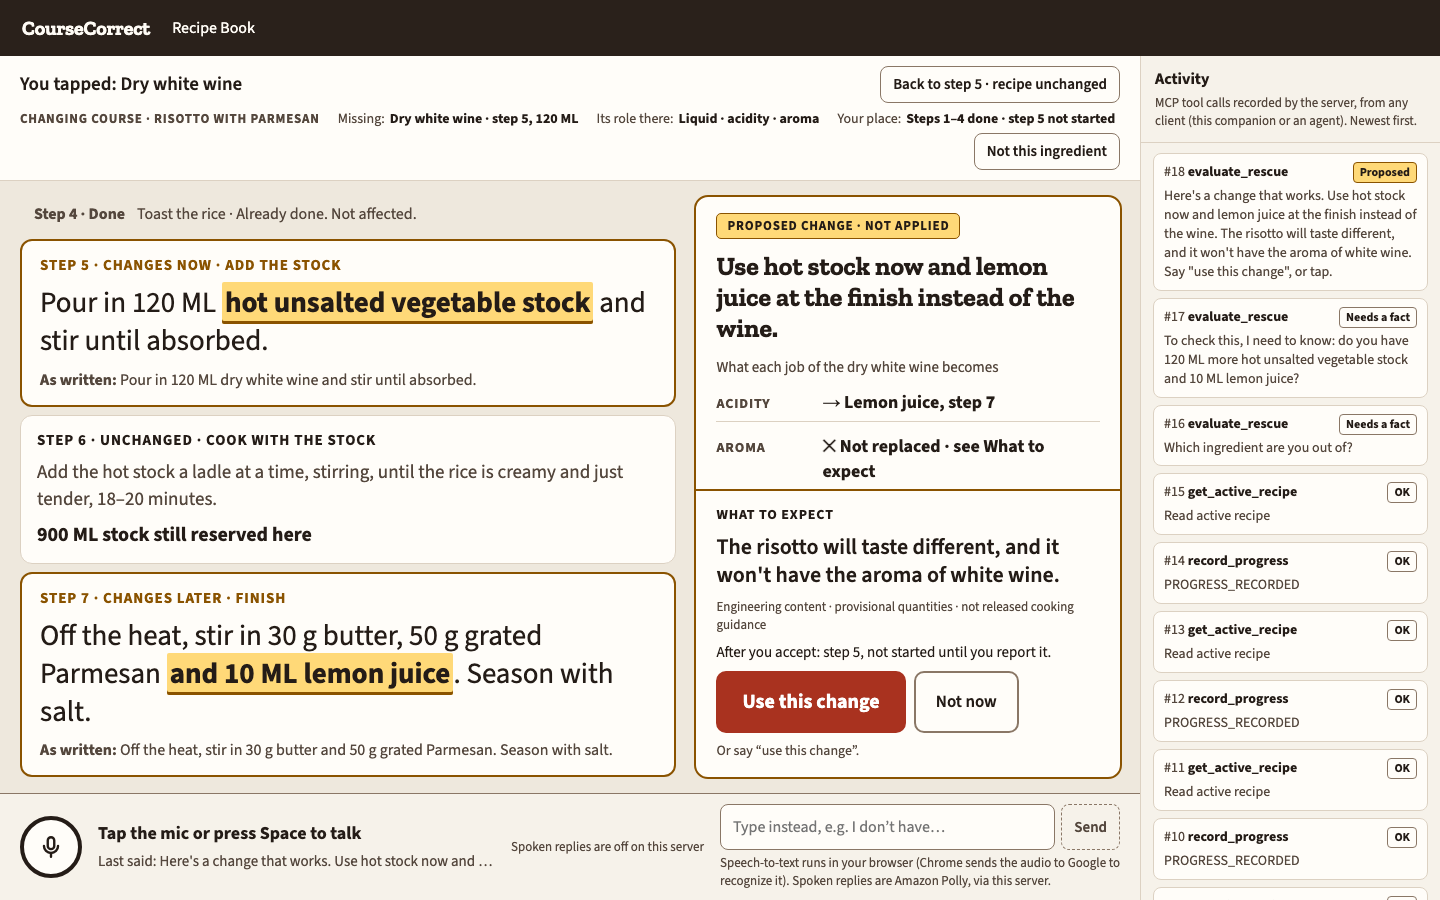
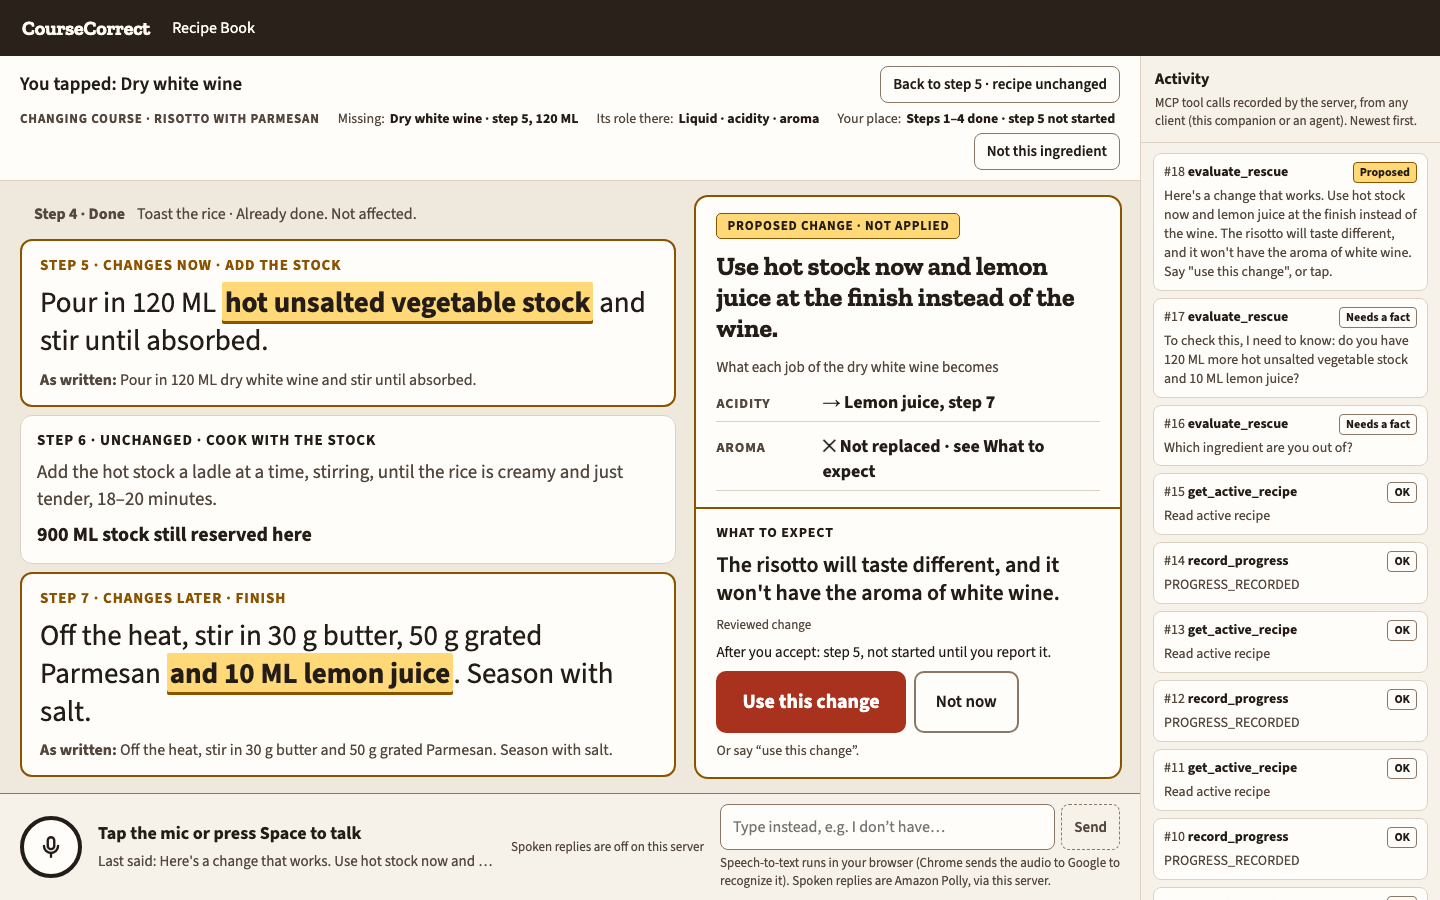
Polish in-app wording and refresh screenshots
- proposals are labelled "Reviewed change" or "Prepared at import
  (AI) · checked by code"; a cooking session shows "Reviewed
  knowledge", with its release in the tooltip
- plan details state each change's culinary support plainly
- bundled recipes are labelled "CourseCorrect recipe"
- README screenshots retaken from the current build

Changed region(s): [[0.5, 0.56, 0.75, 0.7156]]

diff --git a/tests/e2e/journeys.spec.ts b/tests/e2e/journeys.spec.ts
@@ -78,7 +78,7 @@ test('Risotto rescue: question → yes → proposal (consequence beside acceptan
   await expect(consequence).toBeInViewport();
   await expect(use).toBeInViewport();
   await expect(scr(page).getByText('Proposed change · not applied')).toBeVisible();
-  await expect(scr(page).getByText(/Engineering content · provisional quantities · not released cooking guidance/)).toBeVisible();
+  await expect(scr(page).getByText(/Reviewed change/)).toBeVisible();
   await expect(scr(page).getByText('After you accept: step 5, not started until you report it.')).toBeVisible();
   await page.screenshot({ path: '.artifacts/e2e/shots/risotto-proposal-1440.png' });
 
@@ -150,7 +150,7 @@ test('Shortcake step 4: "No", because the same cream must whip in step 6 (reason
 
 test('Scone recovery (approved demo): brushing milk confirmed separately → apply → step 3 not started', async ({ page }) => {
   await reset(page, 'risotto.step5');
-  await start(page, /Cream Scones/, 'Owner-authored');
+  await start(page, /Cream Scones/, 'CourseCorrect recipe');
   await doneThrough(page, 2);
   await say(page, 'I’m out of heavy cream. Can I use milk and butter?');
   const qs = page.getByTestId('question');
@@ -370,7 +370,7 @@ test('Import cards: the imported risotto\'s Parmesan card is a labelled plan →
   await expect(page.getByTestId('question')).toContainText('50 g grated pecorino');
   await page.getByRole('button', { name: 'Yes', exact: true }).click();
   await expect(page.getByTestId('change-7')).toHaveText('Off the heat, stir in 30 g butter and 50 g grated pecorino. Season with salt.');
-  await expect(scr(page).getByText(/^Prepared at import \(AI\) · not reviewed · provisional quantities · not released cooking guidance$/)).toBeVisible();
+  await expect(scr(page).getByText(/^Prepared at import \(AI\) · checked by code$/)).toBeVisible();
   await expect(page.getByTestId('consequence')).toHaveText('Pecorino is saltier and sharper, so taste before adding salt.');
   await page.waitForTimeout(600);
   await page.screenshot({ path: '.artifacts/e2e/shots/cook-card-proposal.png' });
@@ -526,7 +526,7 @@ test('Activity starts blank for each recipe; start over (owner key) clears sessi
 
 test('Scone by spoken-style replies: a plain yes answers one question and prompts the next; "yes to both" answers all; "let’s use this change" applies', async ({ page }) => {
   await reset(page, 'risotto.step5');
-  await start(page, /Cream Scones/, 'Owner-authored');
+  await start(page, /Cream Scones/, 'CourseCorrect recipe');
   await doneThrough(page, 2);
   await say(page, 'I’m out of heavy cream. Can I use milk and butter?');
   await expect(page.getByTestId('question')).toHaveCount(2);
@@ -539,7 +539,7 @@ test('Scone by spoken-style replies: a plain yes answers one question and prompt
   await expect(scr(page).getByText(/Change applied\. Step 3 is ready, not started/)).toBeVisible();
   // the same request answered in one go
   await reset(page, 'risotto.step5');
-  await start(page, /Cream Scones/, 'Owner-authored');
+  await start(page, /Cream Scones/, 'CourseCorrect recipe');
   await doneThrough(page, 2);
   await say(page, 'I’m out of heavy cream. Can I use milk and butter?');
   await expect(page.getByTestId('question')).toHaveCount(2);   // answer the open questions, not a new request

diff --git a/src/contract/analysis.ts b/src/contract/analysis.ts
@@ -49,7 +49,7 @@ function helpers(c: WhyCtx) {
   const r = c.pack.recipe;
   const n = (u: IngredientUse) => stepOrder(r, u.stepId);
   const short = (u: IngredientUse) => { const i = getIngredient(r, u.ingredientId)!; return (i.kind && kindOf(c.v, i.kind.kindId)?.short) || lowerFirst(i.name); };
-  const by = (p: { status: string; by: string; ref?: string | null }) => (p.status === 'REVIEWED' ? (p.by === 'OWNER' ? 'reviewed by the owner' : p.ref?.startsWith('roles.json#') ? `machine-checked against the approved role table (${p.ref.slice('roles.json#'.length)})` : 'machine-checked against owner-approved content') : p.status === 'SOURCE_VERIFIED' ? 'read from the source' : p.status === 'CONFIRMED' ? (p.by === 'COOK' ? 'confirmed by you for this recipe' : 'confirmed') : 'not reviewed');
+  const by = (p: { status: string; by: string; ref?: string | null }) => (p.status === 'REVIEWED' ? (p.by === 'OWNER' ? 'reviewed' : p.ref?.startsWith('roles.json#') ? `machine-checked against the approved role table (${p.ref.slice('roles.json#'.length)})` : 'machine-checked against approved content') : p.status === 'SOURCE_VERIFIED' ? 'read from the source' : p.status === 'CONFIRMED' ? (p.by === 'COOK' ? 'confirmed by you for this recipe' : 'confirmed') : 'not reviewed');
   return { r, n, short, by };
 }
 
@@ -81,7 +81,7 @@ function planOf(c: WhyCtx, b: Binding): ImportPlan | null {
   const basis: string[] = [];
   // mechanical validity and culinary support said apart (2026-10-13)
   if (b.card) basis.push('Written for this recipe by the import analysis (an AI model), then checked by code: amounts parsed, every use of the ingredient addressed, rewritten steps checked against the recipe.',
-    'Culinary support: none on file. Whether this replacement can do the job here is the AI\'s claim; no source or reviewed rule backs it.', 'Not reviewed and not kitchen-tested.');
+    'Culinary support: none on file. Whether this replacement can do the job here is the AI\'s claim; no source or reviewed rule backs it.');
 
   const entry = b.card ? c.pack.cards?.find((e) => e.useId === b.targetUseId) : undefined, repaired = entry?.normalized;
   // ccmcp-swaps-3: which of the ranked suggestions this is, and why each earlier one wasn't used
@@ -107,9 +107,8 @@ function planOf(c: WhyCtx, b: Binding): ImportPlan | null {
       const note = c.pack.cards?.find((e) => e.useId === u.useId)?.roleNote;
       if (note) basis.push(`Step ${n(u)}: ${note}.`);
     }
-    if (b.quantityStatus === 'PROVISIONAL') basis.push('Quantities are provisional engineering content, not kitchen-tested.');
   }
-  if (!b.card) basis.push('Culinary support: a reviewed rule (sourced content the owner approved). Not kitchen-tested.');
+  if (!b.card) basis.push('Culinary support: a reviewed, sourced rule.');
   return {
     planId: b.bindingId, ruleId: b.card ? null : `${b.patternId}@${b.patternVersion}`, title: b.patternTitle, kind: replacements.length ? 'replacement' : 'omission',
     provenance: b.card ? { kind: 'aiPrepared', label: CARD_LABEL, basis } : { kind: 'reviewedRule', label: 'Reviewed change', basis },

diff --git a/tests/acceptance/cards.test.ts b/tests/acceptance/cards.test.ts
@@ -106,7 +106,7 @@ describe('cooking answers come from cards, with no model call beyond interpretat
     const wine = await k.askAll(/wine/i, 'yes', ['lemon-juice']);
     expect(wine.outcome).toBe('proposal');
     if (wine.outcome !== 'proposal') return;
-    expect(wine.candidates[0]).toMatchObject({ headline: 'Use hot stock now and lemon juice at the finish instead of the wine.', contentLabel: 'Engineering content · provisional quantities · not released cooking guidance' });
+    expect(wine.candidates[0]).toMatchObject({ headline: 'Use hot stock now and lemon juice at the finish instead of the wine.', contentLabel: 'Reviewed change' });
 
     const p = await cookTo(svc, saved.risotto.recipeId, 6);
     const e1 = await p.ask(/parmesan/i);
@@ -115,7 +115,7 @@ describe('cooking answers come from cards, with no model call beyond interpretat
     expect(e1.questions.map((q) => q.items.map((i) => i.text))).toEqual([['50 g grated pecorino']]);
     const e2 = await p.ask(/parmesan/i, [], { id: e1.id, answers: [{ questionId: e1.questions[0].id, value: 'yes' }] });
     if (e2.outcome !== 'proposal') throw new Error(e2.outcome);
-    expect(e2.candidates[0]).toMatchObject({ headline: 'Use 50 g grated pecorino instead of the parmesan in step 7.', contentLabel: 'Prepared at import (AI) · not reviewed · provisional quantities · not released cooking guidance',
+    expect(e2.candidates[0]).toMatchObject({ headline: 'Use 50 g grated pecorino instead of the parmesan in step 7.', contentLabel: 'Prepared at import (AI) · checked by code',
       consequence: { text: 'Pecorino is saltier and sharper, so taste before adding salt.' } });
     expect(e2.trace.deterministic).toMatch(/^Prepared at import \(AI\): Grated pecorino for the parmesan/);
     const a = (await apply(svc, e2));

diff --git a/src/service/commands.ts b/src/service/commands.ts
@@ -9,7 +9,7 @@ import { currentStepId, getStep, renderStep } from '../domain/recipe.ts';
 import { evaluate, knowledgeUnavailable } from '../engine/evaluate.ts';
 import { applyProgress, type ProgressAction } from '../engine/progress.ts';
 import {
-  contentLabel, coverageSummary, progressOf, recipeContent, rescueEvaluation, type RecipeBookEntry, type RecipeContent, type RescueEvaluation, type WireAmendment, type WireRun,
+  coverageSummary, progressOf, recipeContent, rescueEvaluation, type RecipeBookEntry, type RecipeContent, type RescueEvaluation, type WireAmendment, type WireRun,
 } from '../contract/project.ts';
 import type { Authoring, ImportJob, WireDraft } from '../authoring/drafts.ts';
 import { pinOf, rebindOf, staticKnowledge, KnowledgeUnavailable, type Content, type Knowledge, type Pin } from './content.ts';
@@ -168,7 +168,7 @@ export class Service {
     return {
       id: row.runId, recipeId: row.recipeId, recipeVersionId: pack.recipeHash, epoch: row.epoch, revision: row.revision, version: row.version,
       state: row.status === 'ACTIVE' ? 'active' : 'ended', mode: row.mode,
-      contentLabel: contentLabel(row.mode, pack.bindings.some((b) => b.quantityStatus === 'PROVISIONAL' && !b.card)),
+      contentLabel: row.mode === 'COOK' ? 'Released' : 'Reviewed knowledge',
       steps: snap.recipe.steps.map((s) => {
         const orig = getStep(v1, s.stepId);
         const eff = renderStep(snap.recipe, s), was = orig ? renderStep(v1, orig) : null;

diff --git a/src/web/review.tsx b/src/web/review.tsx
@@ -191,7 +191,7 @@ function UseDetail({ c, g, u, plan, plans, alt, setAlt, provOpen, setProvOpen, a
       {(roles.length > 0 || guess.length > 0) && <div style={{ display: 'flex', gap: 6, flexWrap: 'wrap', alignItems: 'center' }}>
         <span style={{ fontSize: 15, color: 'var(--cc-text-2)' }}>What it does here</span>
         {(roles.length ? roles : guess).map((t) => <span key={t} style={{ fontSize: 16, fontWeight: 700, border: '1.5px solid var(--cc-border-strong)', borderRadius: 14, padding: '2px 11px', background: 'var(--cc-surface)' }}>{t}</span>)}
-        <span className="muted" style={{ fontSize: 14 }}>{!roles.length ? 'as read at import · not reviewed' : u.reviewedFunction!.authority === 'OWNER_REVIEWED' ? 'reviewed by the owner' : 'machine-checked against the approved role table'}</span>
+        <span className="muted" style={{ fontSize: 14 }}>{!roles.length ? 'as read at import · not reviewed' : u.reviewedFunction!.authority === 'OWNER_REVIEWED' ? 'reviewed' : 'machine-checked against the approved role table'}</span>
       </div>}
       {others.length > 0 && <div style={{ display: 'flex', gap: 6, flexWrap: 'wrap', alignItems: 'center' }}>
         <span style={{ fontSize: 15, color: 'var(--cc-text-2)' }}>Also used in</span>

diff --git a/tests/acceptance/analysis.test.ts b/tests/acceptance/analysis.test.ts
@@ -42,7 +42,7 @@ describe('every use has exactly one analysis status', () => {
     expect(dough.analysis).toMatchObject({ status: 'available', reason: null, coveredByUseId: null, sharedWithUseIds: [brush.id] });
     const p = dough.analysis!.plans[0];
     expect(p).toMatchObject({ ruleId: 'cream_to_butter_milk@1', title: 'Butter and milk for cream in a dough', provenance: { kind: 'reviewedRule', label: 'Reviewed change' },
-      contentStatus: { label: 'Engineering content · provisional quantities · not released cooking guidance', provisional: true },
+      contentStatus: { label: 'Reviewed change', provisional: true },
       consequence: { text: 'These become butter scones: the texture will be a little less rich and tender than cream scones.' } });
     expect(p.replacements.map((x) => [x.ingredientName, x.amount.display, x.preparation])).toEqual(expect.arrayContaining([
       ['Butter', '85 g', 'cold'], ['Milk', '180 ML, plus up to 30 ML more if needed', null], ['Milk', 'a little', null]]));

diff --git a/src/walkthrough.ts b/src/walkthrough.ts
@@ -81,7 +81,7 @@ try {
   const e1 = await ask(run, /wine/i, ['lemon-juice']);
   check(e1.outcome === 'needsFacts' && e1.questions[0].items.length === 2, 'needsFacts: 120 ML stock and 10 ML lemon juice');
   const e2 = await ask(run, /wine/i, ['lemon-juice'], { previousEvaluationId: e1.id, answers: [{ questionId: e1.questions[0].id, value: 'yes' }] });
-  check(e2.outcome === 'proposal' && e2.actionable === true && /^Engineering content/.test(e2.candidates[0].contentLabel), 'reviewed proposal, actionable; answering applied nothing');
+  check(e2.outcome === 'proposal' && e2.actionable === true && /^Reviewed change/.test(e2.candidates[0].contentLabel), 'reviewed proposal, actionable; answering applied nothing');
   const cand = e2.candidates[0];
   const applyArgs = { commandId: randomUUID(), ...scope(run), evaluationId: e2.id, candidateId: cand.id, planId: cand.planId, accepted: true };
   const ap = await call('apply_amendment', applyArgs);

diff --git a/src/contract/project.ts b/src/contract/project.ts
@@ -165,8 +165,8 @@ export const progressOf = (r: Recipe, stepId: Id, ss: Record<Id, StepStatus>, us
 };
 
 export function contentLabel(mode: 'COOK' | 'ENGINEERING', provisional: boolean, origin: 'REVIEWED' | 'IMPORT_CARD' = 'REVIEWED') {
-  if (origin === 'IMPORT_CARD') return `${CARD_LABEL} · not reviewed · ${provisional ? 'provisional quantities · ' : ''}not released cooking guidance`;
-  return mode === 'COOK' ? 'Released' : `Engineering content · ${provisional ? 'provisional quantities · ' : ''}not released cooking guidance`;
+  if (origin === 'IMPORT_CARD') return `${CARD_LABEL} · checked by code`;
+  return mode === 'COOK' ? 'Released' : 'Reviewed change';
 }
 
 /** Recipe Book line: reviewed changes on file, and how many uses have a valid import card (never counted as reviewed). */

diff --git a/tests/e2e/successive.spec.ts b/tests/e2e/successive.spec.ts
@@ -10,7 +10,7 @@ const ingCard = (page: Page, name: string) => page.locator('nav div').filter({ h
 async function startScones(page: Page) {
   expect((await page.request.post('/admin/reset', { headers: { authorization: 'Bearer e2e-admin-key' }, data: { fixtureId: 'risotto.step5' } })).ok()).toBeTruthy();
   await page.goto('/');
-  await page.getByRole('button', { name: /Cream Scones/ }).filter({ hasText: 'Owner-authored' }).first().click();
+  await page.getByRole('button', { name: /Cream Scones/ }).filter({ hasText: 'CourseCorrect recipe' }).first().click();
   await page.getByRole('button', { name: 'Start cooking' }).click();
   await page.getByRole('button', { name: /^End it and start/ }).click();
   await expect(scr(page).getByText(/^Step 1 of \d+/)).toBeVisible();

diff --git a/tests/acceptance/wire.test.ts b/tests/acceptance/wire.test.ts
@@ -49,7 +49,7 @@ describe('FE–BE v1 wire fixtures (B32)', () => {
       ['Lemon juice', 'Step 7', '—', '10 ML', 'added'],
     ]);
     expect(c.consequence).toEqual({ text: 'The risotto will taste different, and it won’t have the aroma of white wine.'.replace('’', "'"), contentSlot: false });
-    expect(c.contentLabel).toBe('Engineering content · provisional quantities · not released cooking guidance');
+    expect(c.contentLabel).toBe('Reviewed change');
     expect(c).toMatchObject({ resumeStepId: STEP['r.deglaze'], applicable: { kind: 'yes' } });
 
     // §7.5
